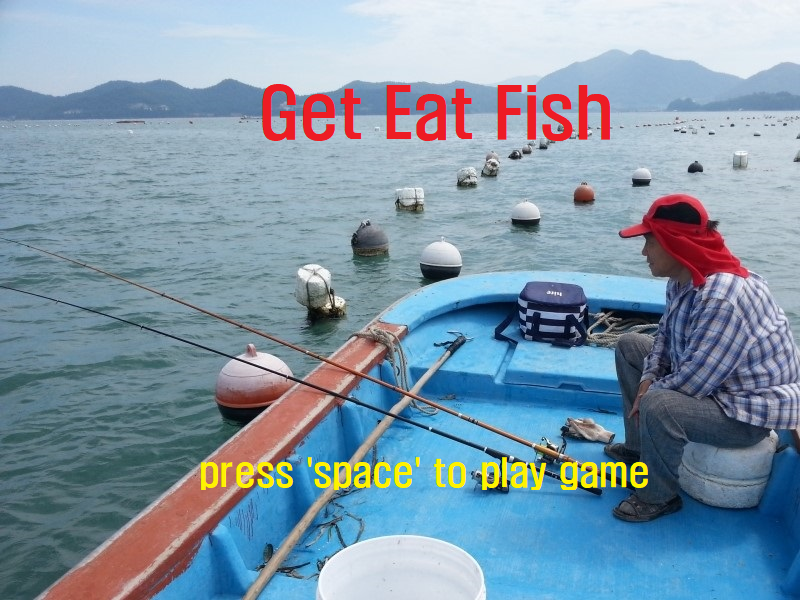
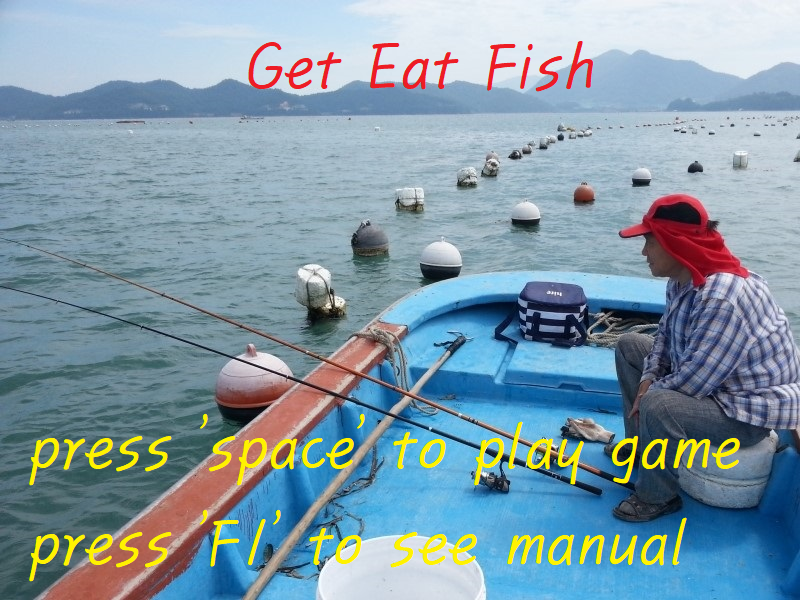
manual_state added

diff --git a/manual_state.py b/manual_state.py
@@ -1,0 +1,49 @@
+import game_framework
+import title_state
+
+from pico2d import *
+
+
+name = "ManualState"
+image = None
+
+def enter():
+    global  image
+    image = load_image('resource/how to play.png')
+
+def exit():
+    global image
+    del(image)
+
+
+def handle_events(frame_time):
+    events = get_events()
+    for event in events:
+        if event.type == SDL_QUIT:
+            game_framework.quit()
+        elif event.type == SDL_KEYDOWN and event.key == SDLK_ESCAPE:
+            game_framework.change_state(title_state)
+
+
+def draw(frame_time):
+    clear_canvas()
+    image.draw(400, 300)
+    update_canvas()
+
+
+def update(frame_time):
+    pass
+
+
+def pause():
+    pass
+
+
+def resume():
+    pass
+
+
+
+
+
+

diff --git a/title_state.py b/title_state.py
@@ -1,5 +1,6 @@
 import game_framework
 import main_state
+import manual_state
 
 from pico2d import *
 
@@ -16,8 +17,9 @@ def enter():
     bgm.repeat_play()
 
 def exit():
-    global image
+    global image, bgm
     del(image)
+    del(bgm)
 
 
 def handle_events(frame_time):
@@ -27,6 +29,8 @@ def handle_events(frame_time):
             game_framework.quit()
         elif event.type == SDL_KEYDOWN and event.key == SDLK_ESCAPE:
             game_framework.quit()
+        elif event.type == SDL_KEYDOWN and event.key == SDLK_F1:
+            game_framework.change_state(manual_state)
         else:
             if (event.type, event.key) == (SDL_KEYDOWN, SDLK_SPACE):
                 game_framework.change_state(main_state)
